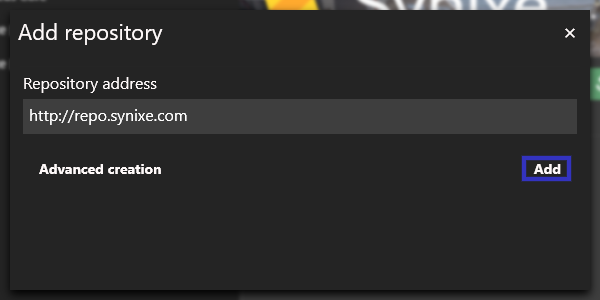
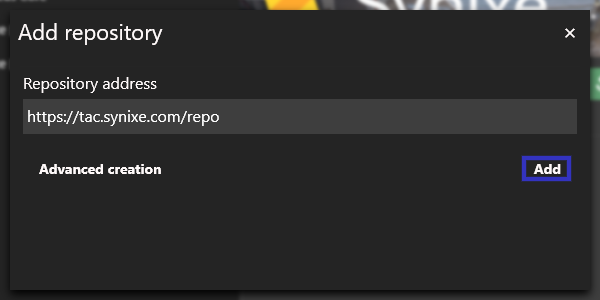
New repo URL

Changed region(s): [[0.03, 0.36, 0.36, 0.42]]

diff --git a/starting/mods.md b/starting/mods.md
@@ -12,7 +12,7 @@ If you already have the Synixe mods, skip to step 3. You will need to add a sepe
 
 ![add repo](swifty-images/swifty_1.png)
 
-4. Enter `http://repo.synixe.com` as the repo address
+4. Enter `https://tac.synixe.com/repo` as the repo address
 
 ![enter address](swifty-images/swifty_2.png)
 
@@ -20,16 +20,12 @@ If you already have the Synixe mods, skip to step 3. You will need to add a sepe
 
 ![details](swifty-images/swifty_3.png)
 
-6. Under `Optional Addons`, enable `@milgearpack`, `@pmc`, and `@synixe_mgp`
-
-![optionals](swifty-images/swifty_4.png)
-
-7. Close the Repository Settings window
+6. Close the Repository Settings window
 
 ![close](swifty-images/swifty_5.png)
 
-8. Refresh the repository
+7. Refresh the repository
 
 ![refresh](swifty-images/swifty_6.png)
 
-9. Hit download after Swifty has fetched all the repository information.
+8. Hit download after Swifty has fetched all the repository information.
